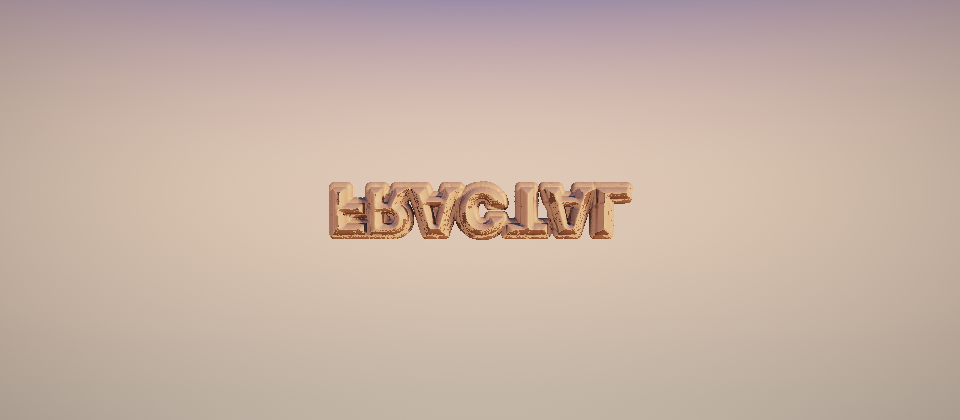
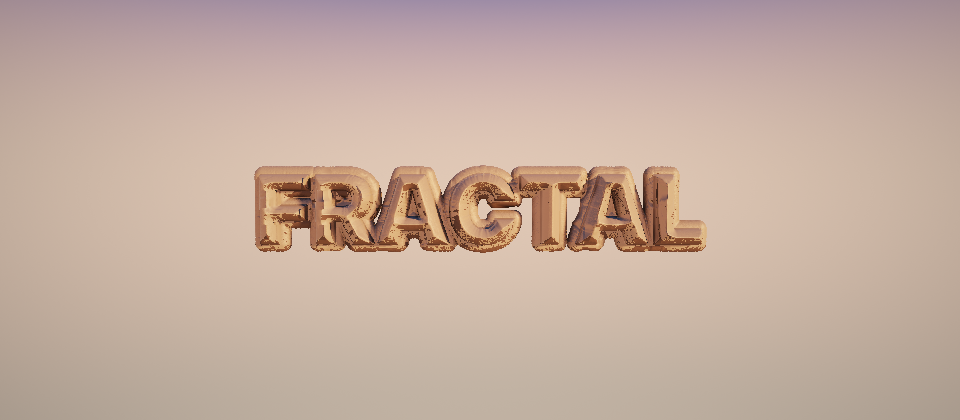
Text sculpture: bolder, larger fractal relief and closer camera; renders pending review
Claude-Session: https://claude.ai/code/session_01LzHNqcCdxhvjX5wMHSsh6L

Changed region(s): [[0.25, 0.3714, 0.75, 0.619]]

diff --git a/index.html b/index.html
@@ -908,7 +908,7 @@ float deText(vec3 p){
   ps = abs(mod(ps+Lc,4.0*Lc)-2.0*Lc) - Lc;
   float dF = deBox(ps,0)/sc;                                                // also sets gTrap for colouring
   float sk = clamp(gQW,-1.0,1.0);
-  if(sk>=0.0){ float hh = 1.0 - clamp(dF/0.12,0.0,1.0); return d3 - 0.07*sk*hh*hh; }
+  if(sk>=0.0){ float hh = 1.0 - clamp(dF/0.2,0.0,1.0); return d3 - 0.17*sk*hh*hh; }                    // raised relief: bold fractal structure standing out of each letter
   float off = (1.0+sk)*(1.0+sk)*0.2;
   return max(d3, dF - off);
 }
@@ -2034,7 +2034,7 @@ const TYPES = [
   {name:'Burning Ship Julia 3D', size:1.2, cam:5.8, bound:1.9, info:'<b>3D Burning Ship Julia</b> — the same map started at the point with a fixed constant c (wandering with the music).'},
   {name:'U4 · fractal logotype', size:1.2, cam:5.6, bound:1.7, info:'<b>U4 logotype</b> — liquid-metal letters (smooth-merged 3D tubes and beads) intersected with a <i>negative Mandelbox</i>. <code>Fractal skin</code> slides from carved (−) through smooth to raised fractal relief (+); <code>Fractal zoom</code> and <code>Box scale</code> change what gets carved. A real 3D solid: orbit it.'},
   {name:'Cathedral of Becoming', size:1.2, cam:7.0, bound:2.4, info:'<b>Cathedral of Becoming</b> — a Menger-style sponge whose tunnels are gothic <i>pointed arches</i>, recursing into smaller cathedrals. Each level turns slightly (a spiral stair) and the whole tapers into a spire. <code>Spiral</code>, <code>Arch width</code> and <code>Spire taper</code> reshape the architecture.'},
-  {name:'Text sculpture', size:1.2, cam:4.3, bound:2.3, info:'<b>Text sculpture</b> — type a word: each letter is inflated liquid metal carrying its <i>own</i> fractal pattern (a different region and scale of a mirror-tiled negative Mandelbox). <code>Fractal skin</code> slides from carved (−) through smooth to raised relief (+); <code>Fractal zoom</code>, <code>Box scale</code> and <code>Inflate</code> reshape it. Use the Text sculpture panel to change the words.'},
+  {name:'Text sculpture', size:1.2, cam:3.2, bound:2.3, info:'<b>Text sculpture</b> — type a word: each letter is inflated liquid metal carrying its <i>own</i> fractal pattern (a different region and scale of a mirror-tiled negative Mandelbox). <code>Fractal skin</code> slides from carved (−) through smooth to raised relief (+); <code>Fractal zoom</code>, <code>Box scale</code> and <code>Inflate</code> reshape it. Use the Text sculpture panel to change the words.'},
 ];
 // cosine palettes: a + b·cos(2π(c·t + d))
 const PALS = [
@@ -2595,7 +2595,7 @@ function params(ty){
     case 20: P.power=clamp(2.4+0.3*Math.sin(t*0.11)+0.6*b,2,4); P.jc=[0.12+0.1*Math.cos(t*0.2+m),0.25+0.12*Math.sin(t*0.27),0.1+0.12*Math.cos(t*0.17)+0.1*b]; break;
     case 18: P.jc=[-0.3+0.15*Math.cos(t*0.2)+0.12*b, 0.25+0.2*Math.sin(t*0.27)+0.1*m, 0.15*Math.sin(t*0.19)]; P.qw=0.1+0.2*Math.sin(t*0.13)+0.2*h; break;
     case 15: P.scale=-clamp(1.7+0.35*Math.sin(t*0.11)+0.6*b,1.5,2.8); break;
-    case 23: P.scale=-clamp(1.7+0.15*Math.sin(t*0.11)+0.3*b,1.5,2.8); P.power=2.2+0.06*Math.sin(t*0.07); P.qw=0.6+0.1*Math.sin(t*0.09); break;
+    case 23: P.scale=-clamp(1.7+0.15*Math.sin(t*0.11)+0.3*b,1.5,2.8); P.power=1.3+0.05*Math.sin(t*0.07); P.qw=0.85+0.1*Math.sin(t*0.09); break;
     case 22: P.fold=0.12+0.05*Math.sin(t*0.1)+0.06*b; P.scale=1+0.06*Math.sin(t*0.07); P.power=0.55; break;
     case 21: P.scale=-clamp(1.7+0.2*Math.sin(t*0.11)+0.35*b,1.5,2.8); P.power=2.2+0.08*Math.sin(t*0.07); P.qw=0.6+0.12*Math.sin(t*0.09); break;
     case 16: P.scale=clamp(2.0+0.2*Math.sin(t*0.1)+0.5*b,1.8,2.8); P.jc=[0.7*Math.cos(t*0.13+m),0.5*Math.sin(t*0.17),0.45*Math.cos(t*0.11)+0.3*b]; break;
